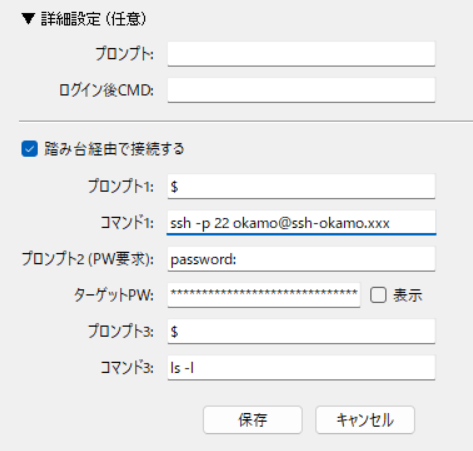
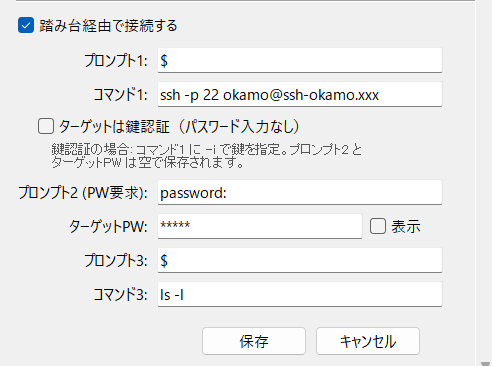
feat: 踏み台ターゲットの鍵認証に対応 (v1.3.0)

diff --git a/src/ttp/dialogs.py b/src/ttp/dialogs.py
@@ -340,7 +340,7 @@ class ConnectionDialog:
         self._dlg.resizable(False, False)
         _setup_dialog(self._dlg, parent)
 
-        _center_window(self._dlg, 500, 680)
+        _center_window(self._dlg, 500, 720)
 
         # スクロール可能なキャンバス
         canvas = tk.Canvas(self._dlg, borderwidth=0, highlightthickness=0)
@@ -482,25 +482,60 @@ class ConnectionDialog:
         self._hop_widgets.append(self._hop_cmd1)
         row += 1
 
+        # ターゲットが鍵認証（PW要求なし）
+        self._hop_key_auth_var = tk.BooleanVar(value=False)
+        self._hop_key_auth_chk = ttk.Checkbutton(
+            frame,
+            text="ターゲットは鍵認証（パスワード入力なし）",
+            variable=self._hop_key_auth_var,
+            command=self._on_hop_toggle,
+        )
+        self._hop_key_auth_chk.grid(
+            row=row, column=0, columnspan=3, sticky=tk.W, padx=(20, 0), pady=(2, 2)
+        )
+        self._hop_widgets.append(self._hop_key_auth_chk)
+        row += 1
+
+        ttk.Label(
+            frame,
+            text="鍵認証の場合: コマンド1 に -i で鍵を指定。プロンプト2 と\n"
+            "ターゲットPW は空で保存されます。",
+            foreground="#555",
+            font=("", 8),
+            justify=tk.LEFT,
+        ).grid(row=row, column=0, columnspan=3, sticky=tk.W, padx=(34, 0), pady=(0, 4))
+        row += 1
+
         # プロンプト2 (パスワード要求)
-        ttk.Label(frame, text="プロンプト2 (PW要求):").grid(row=row, column=0, sticky=tk.E, padx=(0, 8), pady=4)
+        self._hop_prompt2_label = ttk.Label(frame, text="プロンプト2 (PW要求):")
+        self._hop_prompt2_label.grid(row=row, column=0, sticky=tk.E, padx=(0, 8), pady=4)
         self._hop_prompt2 = ttk.Entry(frame, width=35)
         self._hop_prompt2.grid(row=row, column=1, columnspan=2, sticky=tk.W, pady=4)
         self._hop_widgets.append(self._hop_prompt2)
         row += 1
 
         # ターゲットパスワード
-        ttk.Label(frame, text="ターゲットPW:").grid(row=row, column=0, sticky=tk.E, padx=(0, 8), pady=4)
+        self._hop_pw_label = ttk.Label(frame, text="ターゲットPW:")
+        self._hop_pw_label.grid(row=row, column=0, sticky=tk.E, padx=(0, 8), pady=4)
         hop_pw_frame = ttk.Frame(frame)
         hop_pw_frame.grid(row=row, column=1, columnspan=2, sticky=tk.W, pady=4)
         self._hop_password = ttk.Entry(hop_pw_frame, show="*", width=25)
         self._hop_password.pack(side=tk.LEFT)
         self._hop_show_pw_var = tk.BooleanVar(value=False)
-        ttk.Checkbutton(
+        self._hop_show_pw_chk = ttk.Checkbutton(
             hop_pw_frame, text="表示", variable=self._hop_show_pw_var,
             command=self._toggle_hop_password,
-        ).pack(side=tk.LEFT, padx=5)
-        self._hop_widgets.extend([self._hop_password, hop_pw_frame.winfo_children()[1]])
+        )
+        self._hop_show_pw_chk.pack(side=tk.LEFT, padx=5)
+        self._hop_widgets.extend([self._hop_password, self._hop_show_pw_chk])
+        # 鍵認証時は PW 関連だけを無効化する
+        self._hop_no_pw_widgets = [
+            self._hop_prompt2_label,
+            self._hop_prompt2,
+            self._hop_pw_label,
+            self._hop_password,
+            self._hop_show_pw_chk,
+        ]
         row += 1
 
         # プロンプト3
@@ -540,6 +575,7 @@ class ConnectionDialog:
                 self._hop_enabled_var.set(True)
                 self._hop_prompt1.insert(0, connection.hop_prompt1)
                 self._hop_cmd1.insert(0, connection.hop_cmd1)
+                self._hop_key_auth_var.set(connection.hop_key_auth)
                 self._hop_prompt2.insert(0, connection.hop_prompt2)
                 self._hop_password.insert(0, connection.hop_password)
                 self._hop_prompt3.insert(0, connection.hop_prompt3)
@@ -567,12 +603,25 @@ class ConnectionDialog:
         self._hop_password.config(show="" if self._hop_show_pw_var.get() else "*")
 
     def _on_hop_toggle(self) -> None:
-        state = "normal" if self._hop_enabled_var.get() else "disabled"
+        hop_on = self._hop_enabled_var.get()
+        state = "normal" if hop_on else "disabled"
         for w in self._hop_widgets:
             try:
                 w.configure(state=state)
             except Exception:
                 pass
+
+        # 鍵認証ではプロンプト2 / ターゲットPW を使わない
+        no_pw = hop_on and self._hop_key_auth_var.get()
+        no_pw_state = "disabled" if (not hop_on or no_pw) else "normal"
+        for w in self._hop_no_pw_widgets:
+            try:
+                w.configure(state=no_pw_state)
+            except Exception:
+                pass
+        if no_pw and self._hop_show_pw_var.get():
+            self._hop_show_pw_var.set(False)
+            self._hop_password.config(show="*")
 
     def _browse_key(self) -> None:
         path = filedialog.askopenfilename(
@@ -616,6 +665,8 @@ class ConnectionDialog:
             messagebox.showwarning("入力エラー", "公開鍵認証の場合は鍵ファイルを選択してください。", parent=self._dlg)
             return
 
+        hop_key_auth = bool(self._hop_enabled_var.get() and self._hop_key_auth_var.get())
+
         from datetime import datetime
 
         now = datetime.now().isoformat()
@@ -634,8 +685,10 @@ class ConnectionDialog:
             hop_enabled=self._hop_enabled_var.get(),
             hop_prompt1=self._hop_prompt1.get().strip(),
             hop_cmd1=self._hop_cmd1.get().strip(),
-            hop_prompt2=self._hop_prompt2.get().strip(),
-            hop_password=self._hop_password.get(),
+            # 鍵認証ではプロンプト2 / ターゲットPW を保存しない
+            hop_key_auth=hop_key_auth,
+            hop_prompt2="" if hop_key_auth else self._hop_prompt2.get().strip(),
+            hop_password="" if hop_key_auth else self._hop_password.get(),
             hop_prompt3=self._hop_prompt3.get().strip(),
             hop_cmd3=self._hop_cmd3.get().strip(),
             id=conn_id,

diff --git a/src/ttp/teraterm.py b/src/ttp/teraterm.py
@@ -112,8 +112,13 @@ def launch_connection(
     env["TT_TTL_HOP_ENABLED"] = "1" if connection.hop_enabled else "0"
     env["TT_TTL_HOP_PROMPT1"] = connection.hop_prompt1
     env["TT_TTL_HOP_CMD1"] = connection.hop_cmd1
-    env["TT_TTL_HOP_PROMPT2"] = connection.hop_prompt2
-    env["TT_TTL_HOP_PASSWORD"] = connection.hop_password
+    # ターゲットが鍵認証の場合は PW 待ち・PW 送信を行わない
+    env["TT_TTL_HOP_PROMPT2"] = (
+        "" if connection.hop_key_auth else connection.hop_prompt2
+    )
+    env["TT_TTL_HOP_PASSWORD"] = (
+        "" if connection.hop_key_auth else connection.hop_password
+    )
     env["TT_TTL_HOP_PROMPT3"] = connection.hop_prompt3
     env["TT_TTL_HOP_CMD3"] = connection.hop_cmd3
 

diff --git a/src/ttp/models.py b/src/ttp/models.py
@@ -25,6 +25,7 @@ class Connection:
     hop_enabled: bool = False
     hop_prompt1: str = ""   # 踏み台ログイン後のプロンプト
     hop_cmd1: str = ""      # 踏み台で実行するコマンド (例: ssh user@target)
+    hop_key_auth: bool = False  # ターゲットが鍵認証 (PWプロンプトなし)
     hop_prompt2: str = ""   # ターゲットのパスワードプロンプト (例: "password:")
     hop_password: str = ""  # ターゲットのパスワード
     hop_prompt3: str = ""   # ターゲットログイン後のプロンプト

diff --git a/src/ttp/__init__.py b/src/ttp/__init__.py
@@ -1,3 +1,3 @@
 """TTP - Tera Term Pilot"""
 
-__version__ = "1.2.3"
+__version__ = "1.3.0"

diff --git a/docs/release-notes/v1.3.0.md b/docs/release-notes/v1.3.0.md
@@ -1,0 +1,73 @@
+# TTP v1.3.0
+
+踏み台（多段接続）で、**ターゲットが鍵認証**の場合に対応しました。
+
+これまでは踏み台から先の接続がパスワード認証であることを前提に、
+「プロンプト2（PW要求）」と「ターゲットPW」の両方を埋める必要がありました。
+ターゲットが鍵認証の場合はどちらも空にする必要がありますが、画面からは
+「未入力のままでよい」ことが分かりにくい状態でした。
+
+今回、踏み台設定に **「ターゲットは鍵認証（パスワード入力なし）」** の
+チェックボックスを追加し、チェックすると PW 関連の 2 項目が無効化され、
+保存時も空で保存されるようにしました。
+
+![踏み台設定（ターゲット鍵認証）](https://raw.githubusercontent.com/okamoto53515606/ttp/v1.3.0/docs/screenshot/TTPConnectionSettingHopKey.png)
+
+## 変更
+
+| 変更 | 内容 |
+|---|---|
+| 接続先の編集（踏み台） | 「ターゲットは鍵認証（パスワード入力なし）」チェックを追加 |
+| UI | チェック時は「プロンプト2」「ターゲットPW」「表示」をグレーアウトし、入力不可に |
+| 保存データ | 鍵認証時は `hop_prompt2` / `hop_password` を空で保存 |
+| マクロ | 鍵認証時は `TT_TTL_HOP_PROMPT2` / `TT_TTL_HOP_PASSWORD` を空で渡し、PW 待ち・PW 送信を行わない |
+| ダイアログ | 項目追加に合わせて高さを 680 → 720 に拡張 |
+| バージョン | 1.2.3 → 1.3.0 |
+
+## 使い方
+
+1. 接続先の編集画面で「☑ 踏み台経由で接続する」をチェック
+2. 「☑ ターゲットは鍵認証（パスワード入力なし）」をチェック
+3. 「コマンド1」に鍵を指定した ssh コマンドを入力
+
+```
+ssh -i ~/.ssh/id_rsa user@192.168.1.10
+```
+
+プロンプト1 → コマンド1 → プロンプト3 → コマンド3 の順に進みます
+（プロンプト2 とターゲットPW は使用されません）。
+
+> **鍵にパスフレーズがある場合** はチェックを外し、プロンプト2 に
+> `Enter passphrase`、ターゲットPW にパスフレーズを設定してください。
+
+## 既存設定への影響
+
+- 既存の踏み台設定（パスワード認証）は **そのまま動作** します
+- 新項目の既定値は「チェックなし」なので、保存済みデータの変換は不要です
+- 保存済みの接続先も、編集画面を開いてチェックを入れれば切り替えられます
+
+## アップデート方法（既存ユーザー向け）
+
+**既存の ttp フォルダに上書き**してください。
+フォルダを移動・リネームすると、ログ保存先などの設定（絶対パス）が引き継げません。
+
+1. TTP を終了する
+2. 必要に応じて、現在の ttp フォルダを丸ごとコピーしてバックアップする
+3. `ttp-1.3.0.zip` を展開する
+4. 展開した中の **`ttp.exe` と `_internal` フォルダ** を、既存の ttp フォルダへ上書きコピー
+5. `ttp.exe` を起動する
+
+> `ttp_data/`（接続設定・暗号化データ）と `logs/` は上書きしないでください。
+> そのまま残せば、接続先やマスターパスワードを再設定せずに済みます。
+> 展開したフォルダごと置き換えると `logs/` が消えるので注意してください。
+
+## インストール（初めての方）
+
+1. 下の `ttp-1.3.0.zip` をダウンロード
+2. 任意のフォルダに解凍
+3. `ttp.exe` を実行
+
+初回起動時に Microsoft Defender SmartScreen の警告が出る場合があります
+（「詳細情報」→「実行」）。
+
+**フルチェンジログ**: https://github.com/okamoto53515606/ttp/compare/v1.2.3...v1.3.0
